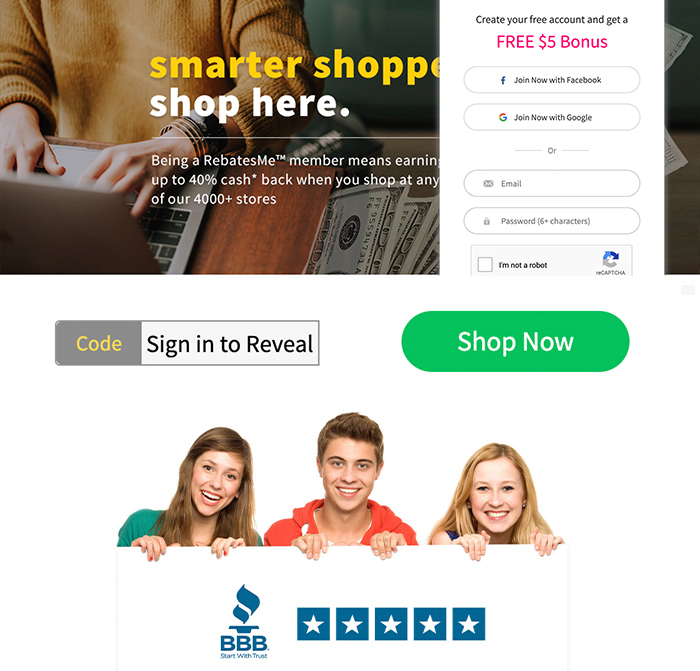
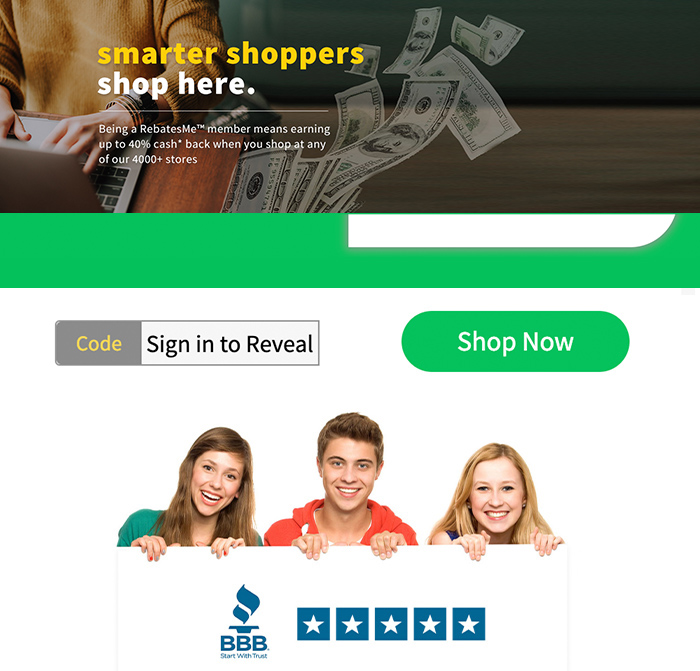
index
verbiage suggests importance and personalization

diff --git a/index.html b/index.html
@@ -52,29 +52,23 @@
       <div class="row align-items-center">
         <div class="col-lg-6 order-lg-2">
           <div class="p-5">
-            <img class="img-fluid rounded-circle border" src="img/01.jpg" alt="">
+            <img class="img-fluid rounded-circle border" src="img/02.jpg" alt="">
           </div>
         </div>
         <div class="col-lg-6 order-lg-1">
+         
           <div class="p-5">
-            <h2 class="display-4">Appearance</h2>
-            <ol>
-              <li><b>Logo </b><p>The logo is too big, looks pixelated on multiple screens, the colors are washed out.</p></li>
-              <li><b>Hero Image</b><p> Outdated imagery, the text is cut off on some screens. Text is also pixelated on a busy background, making the text hard to read.  The important convincing point is put as a subtext too pixelated. Smart people shop with us is as a tagline is outdated and overused as well. </p></li>
-              <li><b>Menu </b><p>The menu is visible only while scrolling 2/3 of the page down. <i>Not sure what the purpose is.</i></p></li>
-              <li><b>Titles & Sub-Titles </b><p>Lowercase does not read well, titles are too big and overpower the layout, with little room to breath. Sub-Titles are set too wide has way more than 6 words hard to scan and does not provide any clarification.</p></li>
-            
-              <li><b>CtA</b> <p>Gets lost in the sea of visual clutter. Appears only one time.</p></li>
-              <li><b>Tone</b> <p>Too simplified repeats information</p></li>
-              <li><b>Color Scheme</b> <p>The color pallet looks bright with inconsistent gradient. I would like to introduce a neutral to offset the vibrant colors.  </p></li>
-              <li><b>Buttons & Input Fields</b> <p>Inconsistent in shape and color</p></li>
-              <li><b>Images</b> <p>Pixelated and inappropriate, shadows are heavy and not natural. Images of cash money are considered dated because of the over use in the early 2000.</p></li>
-              <li><b>Footer</b> <p>Very well organize footer, with social media links present. Repeated BBB information.</p></li>
-
-            
-            </ol>
+            <h3 class="display-4">Overview</h3>
+         <ol>
+           <li><b>Primary goal or purpose is clear </b><p>The logo is key to understanding the purpose of this site. Unfortunately, the supporting elements are not very noticeable.   </p></li>
+           <li><b>Clean, simple design</b><p> The home page appears busy.</p></li>
+           <li><b>Appropriate use of white space </b><p>Elements are too tightly packed, not enough white space. The layout feels crowded and suffocating.</p></li>
+           <li><b>Consistent design </b><p> Inconsistencies in typography, imagery and layout.</p></li>
+           <li><b>Text and colors consistency</b><p> Titles are not consistent. Lowercase titles appear messy. It feels something went wrong while loading. Psychology studies suggest that upper case titles are more comfortable to scan and remembered by users.</p></li>
+          
+         
+         </ol>
           </div>
-      
         </div>
       </div>
     </div>
@@ -85,26 +79,31 @@
       <div class="row align-items-center">
         <div class="col-lg-6">
           <div class="p-5">
-            <img class="img-fluid rounded-circle border" src="img/02.jpg" alt="">
+            <img class="img-fluid rounded-circle border" src="img/01.jpg" alt="">
           </div>
         </div>
         <div class="col-lg-6">
        
+     
+
           <div class="p-5">
-            <h3 class="display-4">Content</h3>
-         <ol>
-           <li><b>Primary goal or purpose is clear </b>
-             <p>The logo is key to understanding the purpose of this site.  </p></li>
-           <li><b>Clean, simple design</b><p> Website appears clean elements are not overlapping. </p></li>
-           <li><b>Appropriate use of white space </b><p>Elements are too tightly packed up, not enough white space. The layout feels tight and suffocating.</p></li>
-           <li><b>Consistent design </b><p> Inconsistencies in typography, imagery and layout.</p></li>
-           <li><b>Text and colors consistency</b><p> Titles are not consistent. Lowercase titles appear messy. It feels something went wrong while loading. Psychology studies suggest that upper case titles are more comfortable to scan and remembered by users.</p></li>
-          
-         
-         </ol>
+            <h2 class="display-4">Appearance</h2>
+            <ol>
+              <li><b>Logo </b><p>The logo is too big, looks pixelated on some screen sizes, the colors are washed out.</p></li>
+              <li><b>Hero Image</b><p> Outdated imagery, the text is cut off on some screens. Text is also pixelated on a busy background, making the text hard to read.  The important convincing point is put as a subtext too pixelated. Smart people shop with us is as a tagline is outdated and overused as well. Confusing punctuation between cash back.</p></li>
+              <li><b>Menu </b><p>The menu is visible only while scrolling 2/3 of the page down. <i>Not sure what the purpose is.</i></p></li>
+              <li><b>Titles & Sub-Titles </b><p>Lowercase does not read well, titles are too big and overpower the layout, with little room to breath. Sub-Titles are set too wide has way more than 6 words hard to scan and does not provide any clarification.</p></li>
+            
+              <li><b>CtA</b> <p>Gets lost in the sea of visual clutter. Appears only one time.</p></li>
+              <li><b>Tone</b> <p>Too simplified repeats information</p></li>
+              <li><b>Color Scheme</b> <p>The color palette looks bright with inconsistent gradient. I would like to introduce a neutral to offset the vibrant colors.  </p></li>
+              <li><b>Buttons & Input Fields</b> <p>Inconsistent in shape and color</p></li>
+              <li><b>Images</b> <p>Pixelated and inappropriate, shadows are heavy and not natural. Images of cash are considered dated because of the overuse in early 2000.</p></li>
+              <li><b>Footer</b> <p>Very well organize footer, with social media links present. Repeated BBB information.</p></li>
+
+            
+            </ol>
           </div>
-
-
 
         </div>
       </div>
@@ -226,7 +225,9 @@
           <h2>RebatesMe</h2>
           <ol>
             <li>Titile is overpowering</li>
-              <li>Focus on is not on the company providing the sale, the procentiges are highlighted. It creates cluter. Customer comes to look for a praticular brand not percents in savings. </li>
+              <li>Focus is on the amound save not ont the company providing the sale. 
+                Does the customer come to the site to get a bargin or do they come to the site looking for a perticuler brand they are interestend in gething a deal on?
+                </li>
               <li>Company logos are hard to see. </li>
 
             </ol>
@@ -259,38 +260,7 @@
             <li>New stores - does not tell the customer why they need to look at these new brands </li>
             <li>Too much real estate lost to acomodate big titiles</li>
               <li>Inconsistant gradients, not in the color scheme</li>
-              <li>Prioritazing savings over brands </li>
-
-            </ol>
-        </div>
-        <div class="col-lg-6 order-lg-1 my-auto showcase-text">
-          <h2>Rakuten</h2>
-          <ol>
-            <li>Brands you need to know - suggest importans and personalization, we found this brands just for you.</li>
-            <li>Strong gradients consistant with the brand </li>
-            </ol>
-        </div>
-      </div>
-
-    </div>
-  
-    <hr>
-    <div class="container-fluid p-5">
-     
-      <div class="row no-gutters">
-
-        <div class="col-lg-6 order-lg-2 text-white showcase-img" style="background-image: url('img/bg-showcase-8.jpg');"></div>
-        <div class="col-lg-6 text-white showcase-img" style="background-image: url('img/bg-showcase-7.jpg');"></div>
-      
-      </div>
-      <div class="row no-gutters">
-        <div class="col-lg-6 order-lg-1 my-auto showcase-text">
-          <h2>RebatesMe</h2>
-          <ol>
-            <li>New stores - does not tell the customer why they need to look at these new brands </li>
-            <li>Too much real estate lost to acomodate big titiles</li>
-              <li>Inconsistant gradients, not in the color scheme</li>
-              <li>Prioritazing savings over brands </li>
+              <li>Prioritazing savings over brands. </li>
 
             </ol>
         </div>
@@ -299,11 +269,15 @@
           <ol>
             <li>Brands you need to know - verbiage suggests importance and personalization. We found these brands just for you.</li>
             <li>Strong gradients consistant with the brand </li>
+            <li>Prioritazing brands over amound saved. </li>
+            
             </ol>
         </div>
       </div>
 
     </div>
+  
+  
    
     <hr>
     <div class="container-fluid p-5">
@@ -327,8 +301,10 @@
         <div class="col-lg-6 order-lg-1 my-auto showcase-text">
           <h2>Rakuten</h2>
           <ol>
-            <li>Highlighted "ends today" suggest urgency. Manipulative behavior to encourage decision making</li>
+            <li>Highlighted "ends today" suggest urgency. influences behavior to encourage fast decision making.</li>
             <li>Well organize hierarchy</li>
+            <li>The listed brands are easy to scan and find what you are looking for</li>
+
             </ol>
         </div>
       </div>
@@ -360,10 +336,9 @@
         <div class="col-lg-6 order-lg-1 my-auto showcase-text">
           <h2>Rakuten</h2>
           <ol>
-            <li>Final Call to action with a promise for more content after signing up</li>
+            <li>Final Call to action with a promise for more content after signing up. </li>
 
-            <li>Highlight ends today suggest urgency. Manipulative behavior to encourage decision making</li>
-            <li>List of brands are easy to scan and find what you are looking for</li>
+           
             </ol>
         </div>
       </div>
